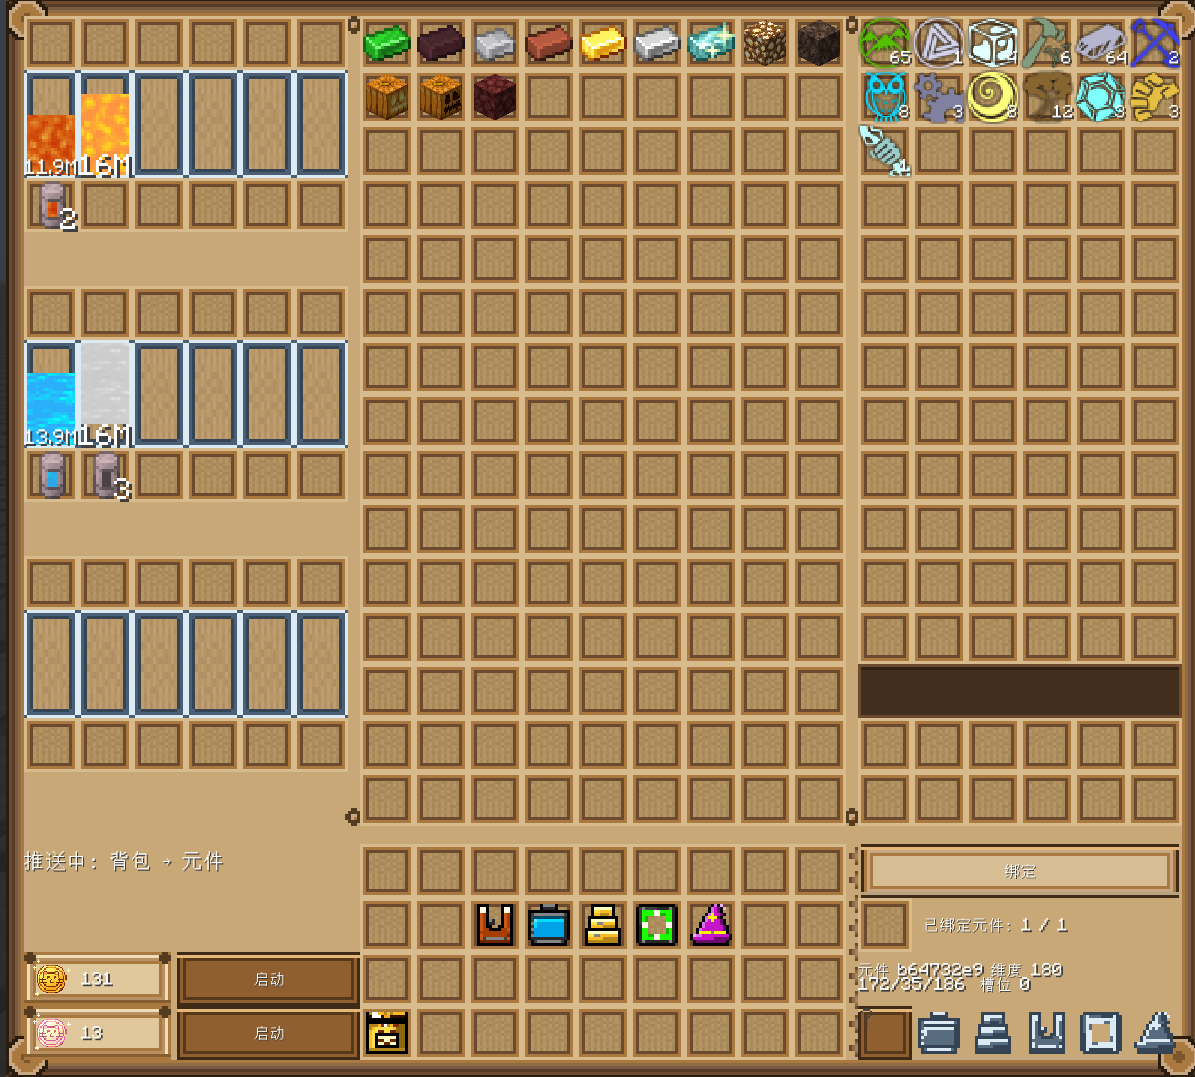
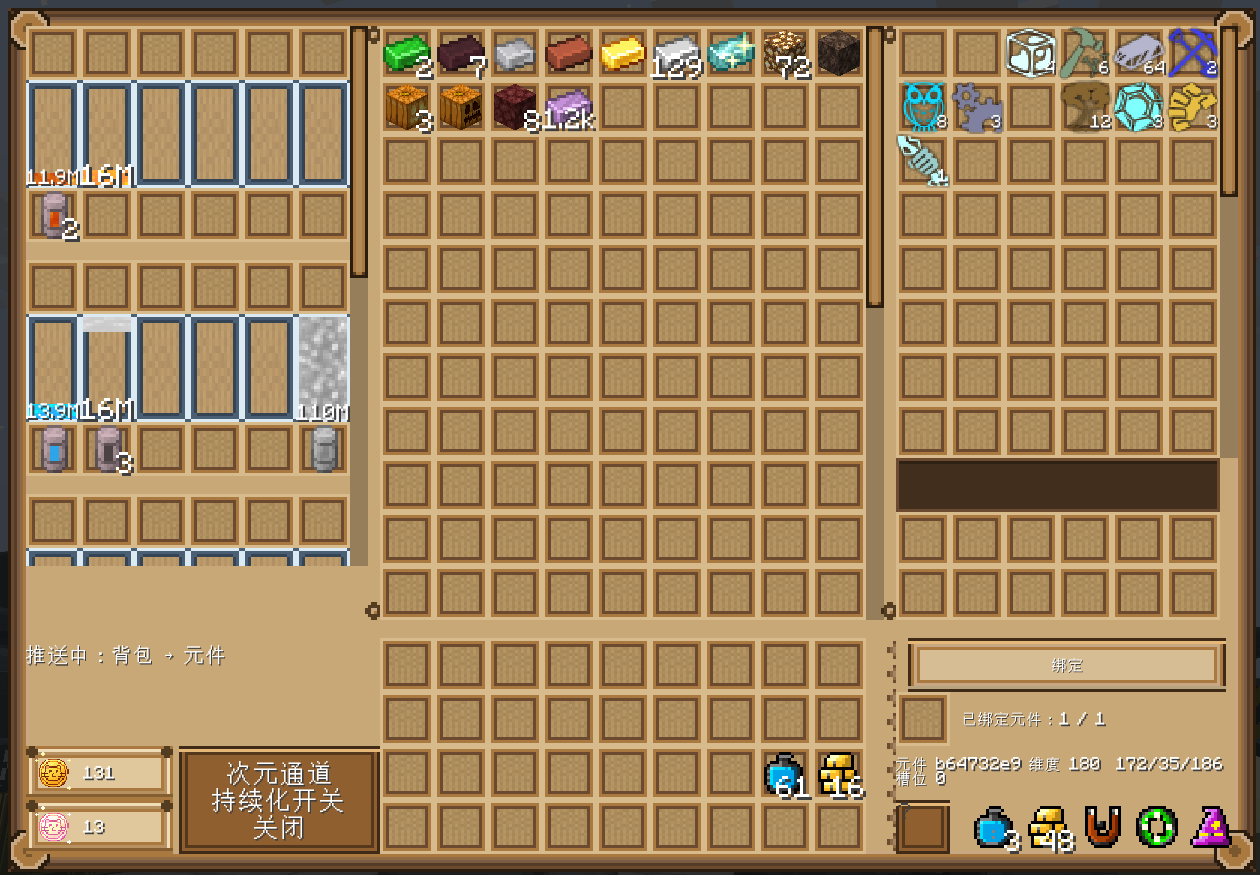
v1.8.69 修复猫猫次元超大堆叠的同类补入
超过64的存储堆允许手持同型物品左键批量和右键单件补入
按升级容量保留满额及超额余量，副本写槽触发原生回调
保留异类替换、拖拽整堆与其他取出限制，补充实际点击回归
替换用户提供的宣传图并更新猫猫次元README存储与插件说明

diff --git a/src/test/java/com/miaokatze/gtit/common/items/pocket/NekoPocketModelTest.java b/src/test/java/com/miaokatze/gtit/common/items/pocket/NekoPocketModelTest.java
@@ -773,6 +773,9 @@ public class NekoPocketModelTest {
         cases.put(
             "upgrade_native_click_append_and_capacity_text",
             NekoPocketModelTest::upgradeNativeClickAppendAndCapacityText);
+        cases.put(
+            "oversized_storage_native_click_safe_append",
+            NekoPocketModelTest::oversizedStorageNativeClickSafeAppend);
         TestRunner.run(NekoPocketModelTest.class, cases);
     }
 
@@ -5121,7 +5124,123 @@ public class NekoPocketModelTest {
         SimpleAssert.that(bindings.hasRoom(), "清空后仍可绑定（上限只约束条目数）");
     }
 
-    /** 本 JVM 能否让 ItemStack 走一次 NBT 往返（只探一次；探不通就说明物品未注册）。 */
+    /** 实际 Container 点击、工厂存储槽与原生同步回调链的超大堆补入回归。 */
+    private static void oversizedStorageNativeClickSafeAppend() {
+        final PocketInventory inventory = PocketInventory.readFrom(new NBTTagCompound());
+        final int[] count = { 64 };
+        inventory.setUpgradeProbes(() -> false, () -> count[0] > 0);
+        inventory.setStackCountProbe(() -> count[0]);
+        final ModularSlot slot = new PocketSlots().storage(inventory, 0);
+        final int[] callbacks = { 0 };
+        slot.changeListener((stack, amount, client, init) -> callbacks[0]++);
+        final ModularContainer notificationContainer = new ModularContainer() {
+
+            @Override
+            public void onSlotChanged(ModularSlot changed, ItemStack stack, boolean amount) {}
+        };
+        final com.cleanroommc.modularui.value.sync.PanelSyncManager manager = new com.cleanroommc.modularui.value.sync.PanelSyncManager(
+            new com.cleanroommc.modularui.value.sync.ModularSyncManager(false),
+            false) {
+
+            @Override
+            public ModularContainer getContainer() {
+                return notificationContainer;
+            }
+        };
+        // Transport/polling is replaced; native ItemSlotSH.onSlotUpdate and ModularSlot callbacks still run.
+        final com.cleanroommc.modularui.value.sync.ItemSlotSH handler = new com.cleanroommc.modularui.value.sync.ItemSlotSH(
+            slot) {
+
+            @Override
+            public void checkUpdate() {
+                onSlotUpdate(getSlot().getStack(), true, false, false);
+            }
+
+            @Override
+            public com.cleanroommc.modularui.value.sync.PanelSyncManager getSyncManager() {
+                return manager;
+            }
+        };
+        slot.initialize(handler, false);
+        final int[] notifications = { 0 };
+        final NekoPocketContainer container = new NekoPocketContainer(null) {
+
+            @Override
+            protected void syncOversizedStoragePlacement(ModularSlot changed, EntityPlayer player) {
+                notifications[0]++;
+            }
+        };
+        container.inventorySlots.add(slot);
+        final EntityPlayer player = magePlayerShell(UUID.randomUUID(), mageServerWorldShell());
+        for (int initial : new int[] { 65, 128, 1024 }) {
+            inventory.storage()
+                .setStackInSlot(0, new ItemStack(FakePlainItem.INSTANCE, initial));
+            final ItemStack before = slot.getStack();
+            final int callbackBefore = callbacks[0];
+            player.inventory.setItemStack(new ItemStack(FakePlainItem.INSTANCE, 64));
+            container.slotClick(0, 0, 0, player);
+            SimpleAssert.eq(initial + 64, slot.getStack().stackSize, "native left append exceeds natural64");
+            SimpleAssert.eq(initial, before.stackSize, "old stack object was not mutated in place");
+            SimpleAssert.that(player.inventory.getItemStack() == null, "cursor consumed exactly64");
+            SimpleAssert.eq(callbackBefore + 1, callbacks[0], "native putStack emits one changed callback");
+            player.inventory.setItemStack(new ItemStack(FakePlainItem.INSTANCE, 5));
+            container.slotClick(0, 1, 0, player);
+            SimpleAssert.eq(initial + 65, slot.getStack().stackSize, "native right appends one");
+            SimpleAssert.eq(4, player.inventory.getItemStack().stackSize, "right remainder retained");
+        }
+        inventory.storage()
+            .setStackInSlot(0, new ItemStack(FakePlainItem.INSTANCE, 65530));
+        player.inventory.setItemStack(new ItemStack(FakePlainItem.INSTANCE, 64));
+        container.slotClick(0, 0, 0, player);
+        SimpleAssert.eq(65536, slot.getStack().stackSize, "full64 modules endpoint");
+        SimpleAssert.eq(58, player.inventory.getItemStack().stackSize, "partial room consumes only6");
+        final int callbackAtFull = callbacks[0];
+        container.slotClick(0, 0, 0, player);
+        SimpleAssert.eq(65536, slot.getStack().stackSize, "full does not change storage");
+        SimpleAssert.eq(58, player.inventory.getItemStack().stackSize, "full does not consume cursor");
+        SimpleAssert.eq(callbackAtFull, callbacks[0], "no mutation callback at full");
+        count[0] = 1;
+        inventory.storage()
+            .setStackInSlot(0, new ItemStack(FakePlainItem.INSTANCE, 1020));
+        player.inventory.setItemStack(new ItemStack(FakePlainItem.INSTANCE, 9));
+        container.slotClick(0, 0, 0, player);
+        SimpleAssert.eq(1024, slot.getStack().stackSize, "one module endpoint");
+        SimpleAssert.eq(5, player.inventory.getItemStack().stackSize, "one module partial remainder");
+        count[0] = 0;
+        container.slotClick(0, 0, 0, player);
+        SimpleAssert.eq(1024, slot.getStack().stackSize, "disabled STACK preserves existing oversized stack");
+        SimpleAssert
+            .eq(5, player.inventory.getItemStack().stackSize, "negative room never subtracts or enlarges cursor");
+        SimpleAssert.that(inventory.storageStack(1) == null, "disabled no scatter to neighbouring cell");
+        count[0] = 64;
+        inventory.storage()
+            .setStackInSlot(0, new ItemStack(FakePlainItem.INSTANCE, 128));
+        final ItemStack tagged = new ItemStack(FakePlainItem.INSTANCE, 3);
+        tagged.setTagCompound(new NBTTagCompound());
+        tagged.getTagCompound()
+            .setInteger("different", 1);
+        for (ItemStack invalid : new ItemStack[] { new ItemStack(FakeStack16Item.INSTANCE, 3),
+            new ItemStack(FakePlainItem.INSTANCE, 3, 1), tagged }) {
+            player.inventory.setItemStack(invalid);
+            container.slotClick(0, 0, 0, player);
+            SimpleAssert.eq(128, slot.getStack().stackSize, "wrong item/meta/NBT does not swap stored pile");
+            SimpleAssert.that(
+                player.inventory.getItemStack() == invalid && invalid.stackSize == 3,
+                "invalid cursor identity and count unchanged");
+        }
+        slot.filter(stack -> false);
+        player.inventory.setItemStack(new ItemStack(FakePlainItem.INSTANCE, 4));
+        container.slotClick(0, 0, 0, player);
+        SimpleAssert.eq(128, slot.getStack().stackSize, "isItemValid false blocks append");
+        SimpleAssert.eq(4, player.inventory.getItemStack().stackSize, "rejected placement preserves cursor");
+        slot.filter(stack -> true);
+        player.inventory.setItemStack(new ItemStack(FakePlainItem.INSTANCE, 0));
+        container.slotClick(0, 0, 0, player);
+        SimpleAssert.eq(128, slot.getStack().stackSize, "zero cursor cannot modify storage");
+        SimpleAssert.that(notifications[0] > 0, "append and rejection both schedule precise slot/cursor correction");
+        SimpleAssert.that(!slot.canDragIntoSlot(), "native drag ban preserved");
+    }
+
     private static void upgradeNativeClickAppendAndCapacityText() {
         final List<String> source = sourceLinesOrNull(
             "src/main/java/com/miaokatze/gtit/gui/pocket/NekoPocketContainer.java");
@@ -18853,7 +18972,7 @@ public class NekoPocketModelTest {
         }
     }
 
-    /** 逐向量钉「超过 64 只放行空手取件」：未超全放行；超 64 后空手 mode 0 放行、其余全拒。 */
+    /** 兜底拒绝函数逐向量回归；生产中的合法同物补入已由前置分支处理。 */
     private static void slotClickOversizedRejectPureFunction() {
         // 未超 64：一切照旧（普通堆的替换/合并是 vanilla 正常语义，不受本规则管）
         SimpleAssert.that(!rejectsOversizedClickReflect(null, 0, null), "null 槽 → 放行（越界/非中栏直通）");

diff --git a/src/main/java/com/miaokatze/gtit/gui/pocket/NekoPocketContainer.java b/src/main/java/com/miaokatze/gtit/gui/pocket/NekoPocketContainer.java
@@ -19,7 +19,7 @@ import com.miaokatze.gtit.main.GTInterestingThing;
  * <p>
  * 本类由 {@link NekoPocketPanel} 经 {@code UISettings#customContainer} 提供
  * （{@code GuiManager.java:81/112/143} 双端都读该 supplier ⇒ 双端同一个类，不破坏 R32）。
- * {@code slotClick} 已覆写（仅服务端拦截：中栏超过 64 的存储堆只放行空手取件，其余手势拒绝
+ * {@code slotClick} 已覆写（中栏超过 64 的存储堆允许同物安全补入与空手有限取件，其余危险手势服务端拒绝
  * ——R104 用户裁定「超过 64 不允许被替换」，旧「前置拆分顶背包」方案在背包已有同物时行为
  * 怪异被否；其余路径原样交 MUI2）；{@code transferStackInSlot} 仍不覆写，也<b>不手工加槽</b>：
  * 槽位注册与其余点击处理全交 MUI2（slice-s4-brief §5 判据里"口袋不手工加槽"是硬口径）。
@@ -92,7 +92,7 @@ public class NekoPocketContainer extends ModularContainer {
     /**
      * ★大堆拦截（R104 修订：由「前置拆分顶背包」改为「超过 64 不允许被替换」——用户实测拆分支
      * 在背包已有同物时几乎不加量、其余掉脚下，裁定干脆禁止）。只拦<b>服务端</b>：客户端那份
-     * 槽栈对 &gt;127 的堆本就是 byte 回绕后的坏数据，拦不住也不该拦（预测瞬态由拒绝后的双纠正拉回）。
+     * 超大堆的手持补入先在双端走安全分支；其余拒绝仍仅在服务端判定，拒绝后的双纠正拉回客户端预测。
      * QUICK_MOVE（mode 1）早退放行——MUI2 自带按天然满量拆块且失败留格，天然安全。
      */
     @Override
@@ -103,6 +103,17 @@ public class NekoPocketContainer extends ModularContainer {
             && PocketSlots.GROUP_UPGRADE.equals(upgrade.getSlotGroupName())) {
             PocketUpgradePlacement.place(upgrade, player == null ? null : player.inventory, mouseButton);
             syncUpgradePlacement(upgrade, player);
+            return null;
+        }
+        final ModularSlot storage = storageSlotAt(slotId);
+        final ItemStack held = player == null ? null : player.inventory.getItemStack();
+        if (mode == 0 && (mouseButton == 0 || mouseButton == 1)
+            && storage != null
+            && storage.getStack() != null
+            && storage.getStack().stackSize > OVERSIZED_STACK_LINE
+            && held != null) {
+            PocketStoragePlacement.place(storage, player.inventory, mouseButton);
+            syncOversizedStoragePlacement(storage, player);
             return null;
         }
         if (mode != 1 && !panel.syncManager()
@@ -117,6 +128,13 @@ public class NekoPocketContainer extends ModularContainer {
             }
         }
         return super.slotClick(slotId, mouseButton, mode, player);
+    }
+
+    /** 服务器同步精确存储数与游标；客户端已使用同一补入算法预测。 */
+    protected void syncOversizedStoragePlacement(ModularSlot slot, EntityPlayer player) {
+        if (panel.syncManager()
+            .isClient()) return;
+        rejectOversizedClick(slot, player);
     }
 
     /** 插件不可拆；专用放入分支仍走原生 putStack 回调，并及时纠正槽与游标。 */
@@ -141,12 +159,12 @@ public class NekoPocketContainer extends ModularContainer {
     }
 
     /**
-     * 大堆拦截判据（★纯函数，JVM 直测）：超过 {@link #OVERSIZED_STACK_LINE} 的存储堆，只放行
+     * 大堆兜底拦截判据（★纯函数，JVM 直测）：安全手持补入已由前置分支处理；本判据只放行
      * <b>空手取件</b>（mode 0 且光标为空——MUI2 的 PICKUP 按天然上限截取，左键 ≤64 / 右键 ≤32
      * 上游标，1.7.10 的 byte 数量序列化天然安全）；其余手势一律拒绝，各自对应的蒸发面：
      * <ul>
      * <li>手持物品点击（替换 swap / 同物合并）——swap 分支把整堆推上游标，&gt;127 出网络回绕成 0
-     * （物品蒸发，正是用户报的"大堆被替换就消失"；合并也一并拒：手上有东西就不许碰大堆，规则只有一条）；</li>
+     * （物品蒸发，正是用户报的"大堆被替换就消失"；合法同物补入不会进入此兜底分支）；</li>
      * <li>热键换位（mode 2）——vanilla 把整堆塞进玩家背包栏，落 NBT 时同一条 byte 纪律蒸发；</li>
      * <li>creative 克隆（mode 3）——光标拿到整堆副本，同 swap；</li>
      * <li>丢掷（mode 4，Q / Ctrl+Q）——Ctrl+Q 整堆丢出，EntityItem.Count 是 byte，1024 回绕。</li>
@@ -163,8 +181,8 @@ public class NekoPocketContainer extends ModularContainer {
     /**
      * 拒绝后的双纠正：客户端会先本地预测一遍 MUI2 的手势（槽被换成手上的 A、游标拿到大堆副本），
      * 服务端拒绝后若不拉回，两端分叉无包可纠（MUI2 对 PICKUP 恒返 null ⇒ vanilla mismatch 救援
-     * 永不触发，R97 R2 取证的同族幽灵）——① {@code forceSyncSlot} 把槽真值（byte 口径，与拒绝前
-     * 一致）强推回去覆盖预测；② {@code setCursorItem} 把游标真值强推回去。返回值与 MUI2 的
+     * 永不触发，R97 R2 取证的同族幽灵）——① {@code forceSyncSlot} 经存储槽的精确 int 同步处理器
+     * 强推真值覆盖预测；② {@code setCursorItem} 把游标真值强推回去。安全补入也复用这条同步路径。返回值与 MUI2 的
      * PICKUP 口径一致取 null：mismatch 救援包推的是服务端返回值本身，&gt;127 同样回绕，救不了。
      */
     private void rejectOversizedClick(ModularSlot modular, EntityPlayer player) {

diff --git a/src/main/java/com/miaokatze/gtit/gui/pocket/PocketStoragePlacement.java b/src/main/java/com/miaokatze/gtit/gui/pocket/PocketStoragePlacement.java
@@ -1,0 +1,36 @@
+package com.miaokatze.gtit.gui.pocket;
+
+import net.minecraft.entity.player.InventoryPlayer;
+import net.minecraft.item.ItemStack;
+
+import com.cleanroommc.modularui.widgets.slot.ModularSlot;
+
+/** 超大存储堆只允许补入同类物品，不交换或取出原堆。 */
+public final class PocketStoragePlacement {
+
+    private PocketStoragePlacement() {}
+
+    public static int place(ModularSlot slot, InventoryPlayer inventory, int button) {
+        if (inventory == null || (button != 0 && button != 1)) return 0;
+        final ItemStack held = inventory.getItemStack();
+        final ItemStack stored = slot.getStack();
+        if (held == null || held.stackSize <= 0
+            || stored == null
+            || stored.stackSize <= 64
+            || stored.getItem() != held.getItem()
+            || stored.getItemDamage() != held.getItemDamage()
+            || !ItemStack.areItemStackTagsEqual(stored, held)) return 0;
+        final int room = slot.getItemStackLimit(held) - stored.stackSize;
+        if (room <= 0) return 0;
+        // Native isItemValid temporarily removes and restores the stack; do not call it on an over-limit pile.
+        if (!slot.isItemValid(held)) return 0;
+        final int moved = Math.min(button == 1 ? 1 : held.stackSize, room);
+        // Copy before mutation so ModularSlot.putStack detects the change and invokes its sync callback.
+        final ItemStack merged = stored.copy();
+        merged.stackSize += moved;
+        held.stackSize -= moved;
+        if (held.stackSize == 0) inventory.setItemStack(null);
+        slot.putStack(merged);
+        return moved;
+    }
+}

diff --git a/README.md b/README.md
@@ -320,13 +320,17 @@ An AE2 storage cell of GTIT's own design: **one cell serves every registered cha
 
 ### Neko Dimensional Pocket / 猫猫次元口袋
 
-<p align="center"><img src="README/Neko%20Dimensional%20Pocket%20UI.png" width="560" alt="猫猫次元口袋面板 / Neko Dimensional Pocket GUI"><br><em>猫猫次元口袋面板 / the three-column panel</em></p>
+<p align="center"><img src="README/Neko%20Dimensional%20Pocket%20UI.png" width="560" alt="猫猫次元口袋面板 / Neko Dimensional Pocket GUI"><br><em>猫猫次元口袋：三栏独立滚动 / three independently scrollable storage columns</em></p>
 
 一枚缝着猫脸的束口袋。猫猫们从不解释针脚里藏着什么——只知道你右键时它会打个大大的哈欠，把库存、液体与源质都吞进梦境般柔软的某处；它似乎永远装不满，也从不肯把吃进去的东西弄丢。
 
 A drawstring pouch with a cat face sewn on. The cats never explain what's stitched inside — only that it yawns wide when you right-click, swallowing your inventory, fluids and essentia into somewhere soft as a dream. It never seems to fill up, and it never loses what it has swallowed.
 
-- **Upgrade modules / 升级插件**: 通过插件可以实现容量扩容、堆叠翻倍、磁力拾取、通道常开、蒸馏加速等功能（放入即固化、不可取出）。
+- **Storage / 存储**: 更紧凑的面板，三个存储区域可独立滚动、拖动滚动条；30 个流体槽、207 个物品槽、120 个源质格。/ A compact panel with three independent, draggable scrollbars: 30 fluid slots, 207 item slots and 120 essentia slots.
+- **STACK / 堆叠插件**: 最多安装 64 枚，第一枚将可堆叠物品的单格上限提升到 1,024，之后每枚再增加 1,024，最高 65,536；数量达到 1,000 时以一位小数的 k 显示。超过 64 后仍可手持同类物品左键补入、右键补入一件。/ Up to 64 modules provide 1,024 items per module, reaching 65,536 per eligible slot. Counts of 1,000 or more use one decimal place with `k`; matching carried items can still be added to stacks above 64.
+- **CAPACITY / 容量插件**: 最多安装 64 枚，流体槽基础容量 20M mB，前 63 枚各增加 30M，第 64 枚增加 90M，最终每槽 2G mB；旧容量插件保留原有 2G。/ Up to 64 modules raise each fluid slot from 20M mB to 2G mB; modules 1–63 add 30M each and the final module adds 90M. Existing capacity upgrades retain their 2G capacity.
+- **Channel toggle / 通道开关**: 通道插件新装默认关闭，可在猫猫币栏旁便携开关次元通道。/ Newly installed channel modules start disabled; toggle the persistent dimension channel beside the Neko Coin area.
+- **Upgrade modules / 升级插件**: 插件放入即固化、不可取出；除堆叠和容量插件可累计外，其余各安装一枚。五种插件拥有动态物品图标，并支持磁力拾取、蒸馏加速等功能。/ Modules are permanent once installed. STACK and CAPACITY modules accumulate; the other modules are limited to one each. All five have animated item icons, with functions including magnetic pickup and faster distillation.
 - **Recipe / 配方**: `PEP / LCL / LLL`（末影珍珠 + 末影之眼 + 皮革 + 猫猫无限存储单元，不比较元件 NBT）；前置 ModularUI2、AE2、GT5U，Thaumcraft 4 可选。
 
 ***
